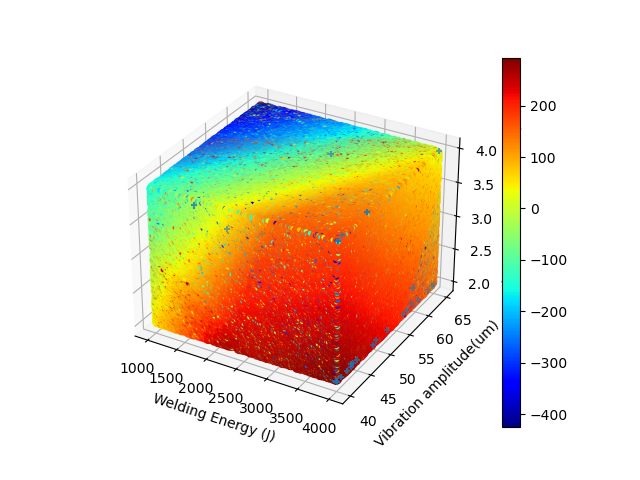
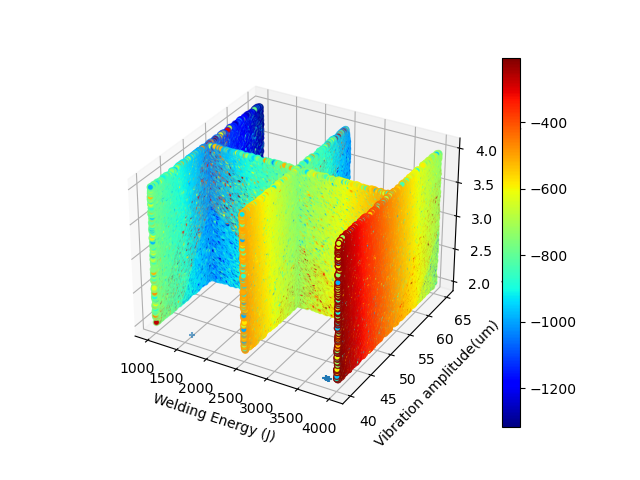
Creating a Neural Network and Environment with csv weights

diff --git a/ComplexEnv.py b/ComplexEnv.py
@@ -1,47 +1,31 @@
 import numpy as np
-
+from numpy import genfromtxt
 
 def environment(a,b,c):
 
     def relu(x):
         return np.maximum(0, x)
-    """Layer 1 is the input layer"""
-    layer1 = np.array([[-10.0921824, -1.2295564, 3.524825, 0.60919493, 1.500472, 4.9612713, -0.83312845, 5.251755],
-                           [3.5744455, 3.6810036, 3.8745055, 3.2572958, 3.948388, 3.12964, 2.6118754, 3.0091878],
-                           [3.6489224, 3.9266431, 3.5925405, 3.987362, 3.1607528, 3.4052515, 3.6973891, 1.3268412],
-                           [-0.597243, -2.3640323, -0.8874578, 5.705992, -1.5478004, -0.8694353, -2.2138014,
-                            -1.1885703]])
 
-    bias1 = np.array([5.69777, 4.854296, -1.4282128, 5.7959104, 0.93713766, -1.1772327, 3.1620402, 1.0930961])
+    layer1 = genfromtxt('layer1.csv', delimiter=',')
+
+    bias1 = genfromtxt('bias1.csv', delimiter=',')
     bias1 = bias1.reshape(-1, 8)
     '''Layer 2 is the hidden layer'''
-    layer2 = np.array([[1.4864122, 1.3812879, 3.3169959, 4.0733933, 3.3108673, 1.9383894, -0.8571715, 3.8677542],
-                           [6.134839, 2.514021, 4.8724103, 5.6893535, 5.195739, 2.1267622, 4.8431873, 6.282418],
-                           [2.3219786, 0.93685806, 1.576028, 1.0264689, 0.29711148, 0.8766245, 1.9142852, -4.828735],
-                           [-0.6163249, -2.6741948, 3.9619783, -2.4506505, 4.8223758, -1.2056774, -1.1754777,
-                            4.892866],
-                           [1.7677287, 1.0984539, 3.386629, 9.0703564, 3.801893, 2.5657701, 4.231701, -0.6757402],
-                           [0.64468974, 1.355038, 0.680768, 1.3085587, 0.34975052, -2.249866, -0.073497914, -3.46727],
-                           [5.469417, 2.573279, 1.27536, 5.6576605, 9.33991, 5.701908, 3.3806422, 2.5719318],
-                           [2.4489398, 5.095386, 9.0213246, 1.7711586, 2.5952158, 2.9393976, 3.9642975, -3.1774518]])
+    layer2 = genfromtxt('layer2.csv', delimiter=',')
 
-    bias2 = np.array([2.1337848, -0.98697954, -1.4635577, 0.7005308, 0.6077686, 1.9468734, 1.151996, 1.2201381])
+    bias2 = genfromtxt('bias2.csv', delimiter=',')
 
     bias2 = bias2.reshape(-1, 8)
     '''Layer 3 is the output layer'''
-    layer3 = np.array([2.972767, -2.9369528, 2.6234467, -15.8388968, 2.0436954, 15.59104, 2.000915, -2.6252165])
+    layer3 = genfromtxt('layer3.csv', delimiter=',')
     layer3 = np.reshape(layer3, (-1, 1))
-    d = 0.1
 
 
-
-
-    inputs = np.array([a,b,c,d])
-    inputs = np.reshape(inputs, (-1, 4))
+    inputs = np.array([a, b, c])
+    inputs = np.reshape(inputs, (-1, 3))
     result = np.matmul(inputs, layer1)
 
     result = np.add(result, bias1)
-
 
     for i in range(result.size):
         result[0, i] = relu(result[0, i])
@@ -53,14 +37,18 @@ def environment(a,b,c):
     result = np.matmul(result, layer3)
 
     return result
-def array_input(a,b,c):
+
+
+def array_input(a, b, c):
     i = 0
     result_list = []
 
     while i < 100:
-        result_list.append(float(environment(((a[i]-1000)/2500),((b[i]-45)/20),(c[i]-2)/2)))
+        result_list.append(float(environment(((a[i],b[i],c[i])))))
         i = i + 1
     return result_list
-def environment_array(a,b,c):
 
-    return array_input(a,b,c) if type(c)== np.ndarray else float(environment(((a-1000)/2500),((b-45)/20),((c-2)/2)))
+
+def environment_array(a, b, c):
+    return array_input(a, b, c) if type(c) == np.ndarray else float(environment(a, b ,c))
+

diff --git a/3Doptimisation.py b/3Doptimisation.py
@@ -14,7 +14,7 @@ cv = []
 def black_box_function(x, y,z):
     return environment_array(x,y,z)
 
-for i in range(10000):
+'''for i in range(10000):
 
     x = np.random.uniform(1000,4000)
     y = np.random.uniform(40,65)
@@ -25,11 +25,11 @@ for i in range(10000):
     b.append(y)
     j.append(z)
     cv.append(c)
-    i = i + 1
+    i = i + 1'''
 
 
 
-for i in range(10000):
+'''for i in range(10000):
 
     x = np.random.uniform(1000,4000)
     y = np.random.uniform(40,65)
@@ -40,7 +40,7 @@ for i in range(10000):
     b.append(y)
     j.append(z)
     cv.append(c)
-    i = i + 1
+    i = i + 1'''
 
 for i in range(10000):
 
@@ -68,7 +68,7 @@ for i in range(10000):
     cv.append(c)
     i = i + 1
 
-for i in range(10000):
+'''for i in range(10000):
 
     x = np.random.uniform(1000,4000)
     y = 40
@@ -79,7 +79,7 @@ for i in range(10000):
     b.append(y)
     j.append(z)
     cv.append(c)
-    i = i + 1
+    i = i + 1'''
 
 for i in range(10000):
 
@@ -96,7 +96,7 @@ for i in range(10000):
 
 
 
-for i in range(10000):
+'''for i in range(10000):
 
     x = np.random.uniform(1000,4000)
     y = 65
@@ -107,9 +107,9 @@ for i in range(10000):
     b.append(y)
     j.append(z)
     cv.append(c)
-    i = i + 1
+    i = i + 1'''
 
-'''for i in range(100000):
+for i in range(10000):
 
     x = 2500
     y = np.random.uniform(40,65)
@@ -120,7 +120,7 @@ for i in range(10000):
     b.append(y)
     j.append(z)
     cv.append(c)
-    i = i + 1'''
+    i = i + 1
 cv = np.array(cv)
 '''Here is where the gaussian noise is created and added to the plot'''
 '''noise = np.random.normal(0,100,cv.shape)
@@ -133,16 +133,16 @@ pbounds = {'y': (40, 65), 'z': (2, 4),'x':(1000,4000)}
 optimizer = BayesianOptimization(
     f=black_box_function,
     pbounds=pbounds,
-    verbose=1, # verbose = 1 prints only when a maximum is observed, verbose = 0 is silent
+    verbose=2, # verbose = 1 prints only when a maximum is observed, verbose = 0 is silent
     random_state=249
 )
-def probe_point(x,y,z):
+'''def probe_point(x,y,z):
     return optimizer.probe(params={"x": x, "y": y, "z":z},lazy=True,)
 
 probe_point(4000,65,4)
 probe_point(4000,65,2)
 probe_point(1000,65,2)
-probe_point(1500,50,3)
+probe_point(1500,50,3)'''
 optimizer.maximize(init_points = 3, n_iter = 20)
 
 xlist = []

diff --git a/NewNeuralNet.py b/NewNeuralNet.py
@@ -1,0 +1,56 @@
+from Graph_ANN import graphAnn
+from tensorflow import keras
+from tensorflow.keras import layers
+import numpy as np
+from keras.callbacks import EarlyStopping
+from keras.layers import GaussianNoise
+from keras.utils.vis_utils import plot_model
+
+
+data_matrix = np.zeros((100,4))
+i = 0
+while i < len(data_matrix):
+    a = 1000+(30*i)
+    b = 40+(0.25*i)
+    c = 2+(0.02*i)
+    d = abs((a-2500)) +abs((b-52.5))+abs((c-2.000))
+    d = d*-1
+
+
+
+
+    data_matrix[i]= [a,b,c,d]
+    i = i +1
+
+
+
+X = data_matrix[:,:3]
+y = data_matrix[:,3]
+print(y[1])
+print(X[1])
+
+model = keras.Sequential()
+model.add(layers.Dense(8, input_dim=3, activation="relu", name="input_layer", use_bias=True))
+model.add(layers.Dense(8, activation="relu", name="hidden_layer", use_bias=True))
+model.add(layers.Dense(1, activation="linear", name="output_layer", use_bias=False))
+model.compile(keras.optimizers.Adam(learning_rate=0.05), loss='mse', metrics=['mse'])
+model.fit(X,y,epochs = 3000, batch_size = 10)
+plot_model(model, to_file='model_plot.png', show_shapes=True, show_layer_names=True)
+
+weights = model.get_weights()
+
+layer1= weights[0]
+np.savetxt('layer1.csv', layer1, delimiter= ',')
+
+bias1= weights[1]
+np.savetxt('bias1.csv', bias1, delimiter= ',')
+
+layer2 = weights[2]
+np.savetxt('layer2.csv', layer2, delimiter= ',')
+
+bias2 = weights[3]
+np.savetxt('bias2.csv', bias2, delimiter= ',')
+
+layer3 = weights[4]
+np.savetxt('layer3.csv', layer3, delimiter= ',')
+

diff --git a/Artificial_Neural_Network.py b/Artificial_Neural_Network.py
@@ -13,6 +13,7 @@ def get_model():
     model.add(layers.Dense(neurons, activation="relu", name="hidden_layer" ,use_bias=True))
     model.add(layers.Dense(1, activation="linear", name="output_layer", use_bias=False))
     model.compile(keras.optimizers.Adam(learning_rate=0.05), loss='mse' ,metrics=['mse' ] )
+    plot_model(model, to_file='model_plot.png', show_shapes=True, show_layer_names=True)
     print(model.summary())
     return model
 

diff --git a/bayesian_optimization.py b/bayesian_optimization.py
@@ -189,7 +189,7 @@ class BayesianOptimization(Observable):
                  n_iter=25,
                  acq='ei',
                  kappa=10,
-                 xi=0.1,
+                 xi=1,
                  **gp_params):
         """Mazimize your function"""
         self._prime_subscriptions()
